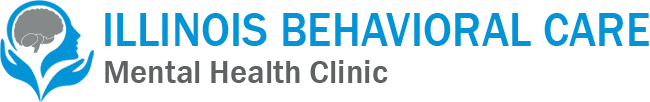
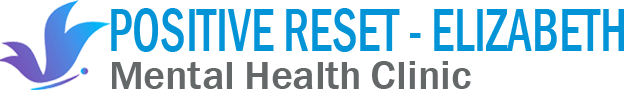
second commit

diff --git a/components/LogoImgDark/LogoImgDark.tsx b/components/LogoImgDark/LogoImgDark.tsx
@@ -24,7 +24,7 @@ const LogoImgDark = () => {
               fontSize: 18,
             }}
           >
-            ILLINOIS BEHAVIORAL CARE
+            POSITIVE RESET
           </Box>
           <Box
             sx={{
@@ -34,6 +34,15 @@ const LogoImgDark = () => {
             }}
           >
             Metal Health Clinic
+          </Box>
+          <Box
+            sx={{
+              color: "rgba(55,152,213,0.98)",
+              fontWeight: "bold",
+              fontSize: 14,
+            }}
+          >
+            ELIZABETH
           </Box>
         </Box>
       </Box>

diff --git a/components/LogoImg/LogoImg.tsx b/components/LogoImg/LogoImg.tsx
@@ -18,7 +18,7 @@ const LogoImg = () => {
         </Box>
         <Box>
           <Box sx={{ color: "#fff", fontWeight: "bold", fontSize: 18 }}>
-            ILLINOIS BEHAVIORAL CARE
+          POSITIVE RESET
           </Box>
           <Box
             sx={{
@@ -28,6 +28,14 @@ const LogoImg = () => {
             }}
           >
             Metal Health Clinic
+          </Box>
+          <Box
+            sx={{
+              color: "#fff",
+              fontSize: 14,
+            }}
+          >
+            ELIZABETH
           </Box>
         </Box>
       </Box>
